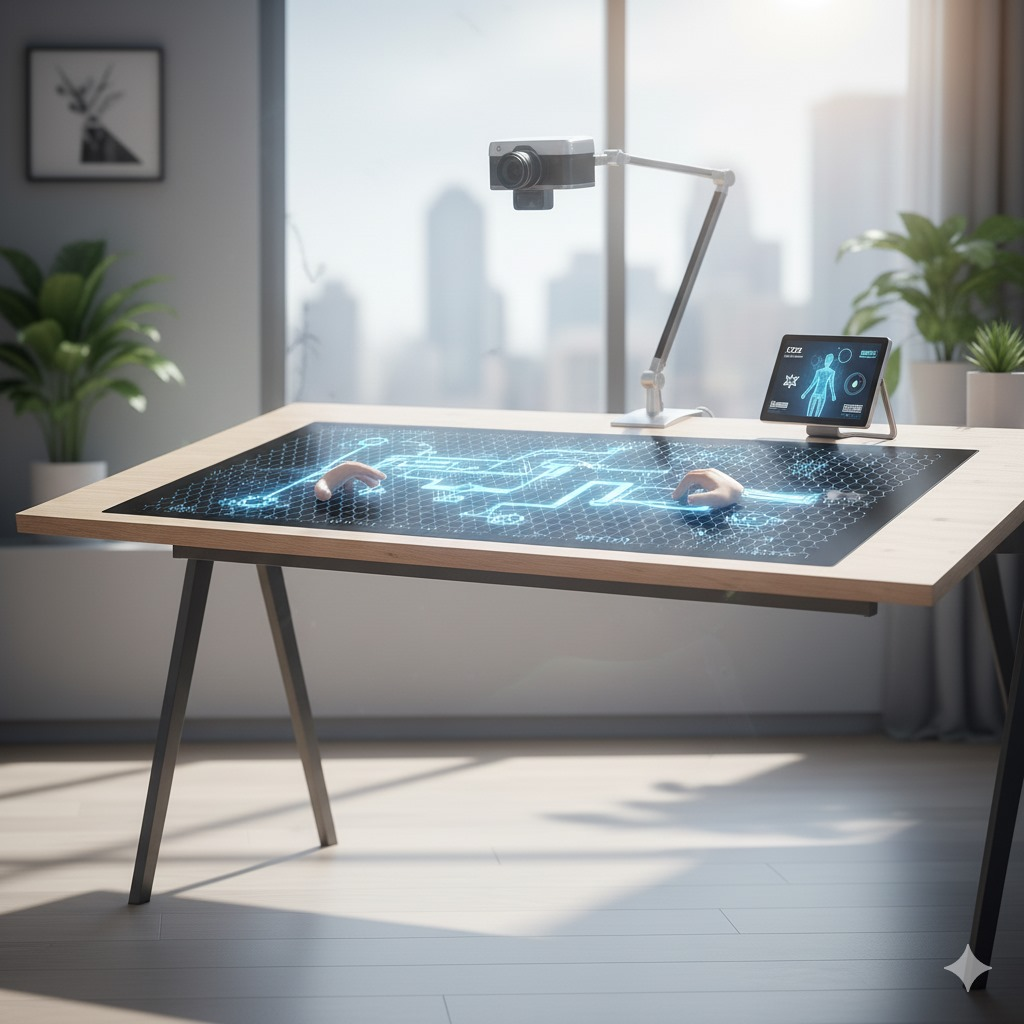
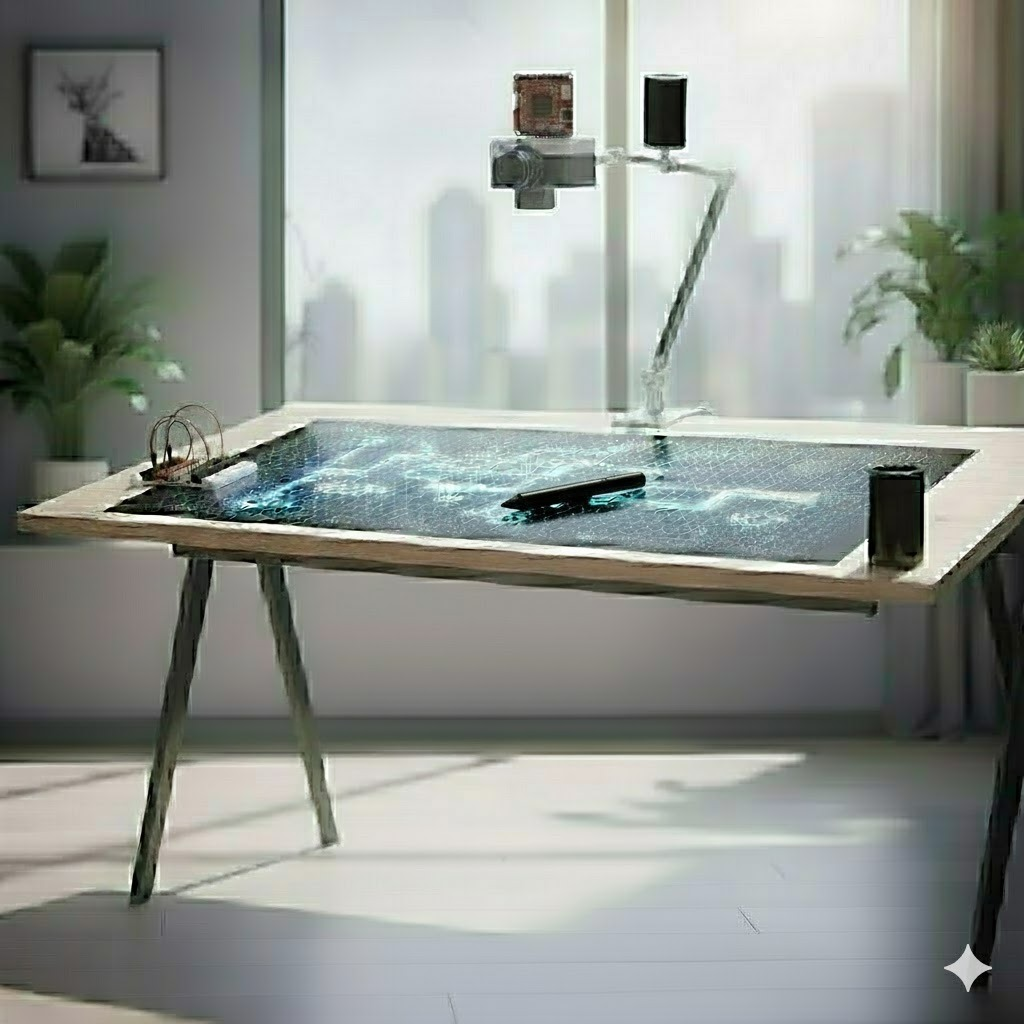
Update hero image and project overview

diff --git a/src/components/About.tsx b/src/components/About.tsx
@@ -10,10 +10,9 @@ const About = () => {
             Project Overview
           </h2>
           <p className="text-lg text-muted-foreground text-center leading-relaxed mb-8">
-            Touch Screen Foldable Mat for Workspace Evolution is an innovative workspace designed to improve productivity and comfort 
-            using smart sensors and automation. It offers an intelligent solution to monitor 
-            posture, manage lighting, and create a healthier work environment — integrating 
-            technology seamlessly into everyday life.
+            We are creating a Touch screen foldable mat for workspace evolution. It is an Innovative approach 
+            designed to improve the productivity of the students and office workers by integrating sensors, 
+            microprocessors and numerous other technologies seamlessly into everyday life.
           </p>
 
           <Card className="p-6 mb-12 bg-secondary border-border">
